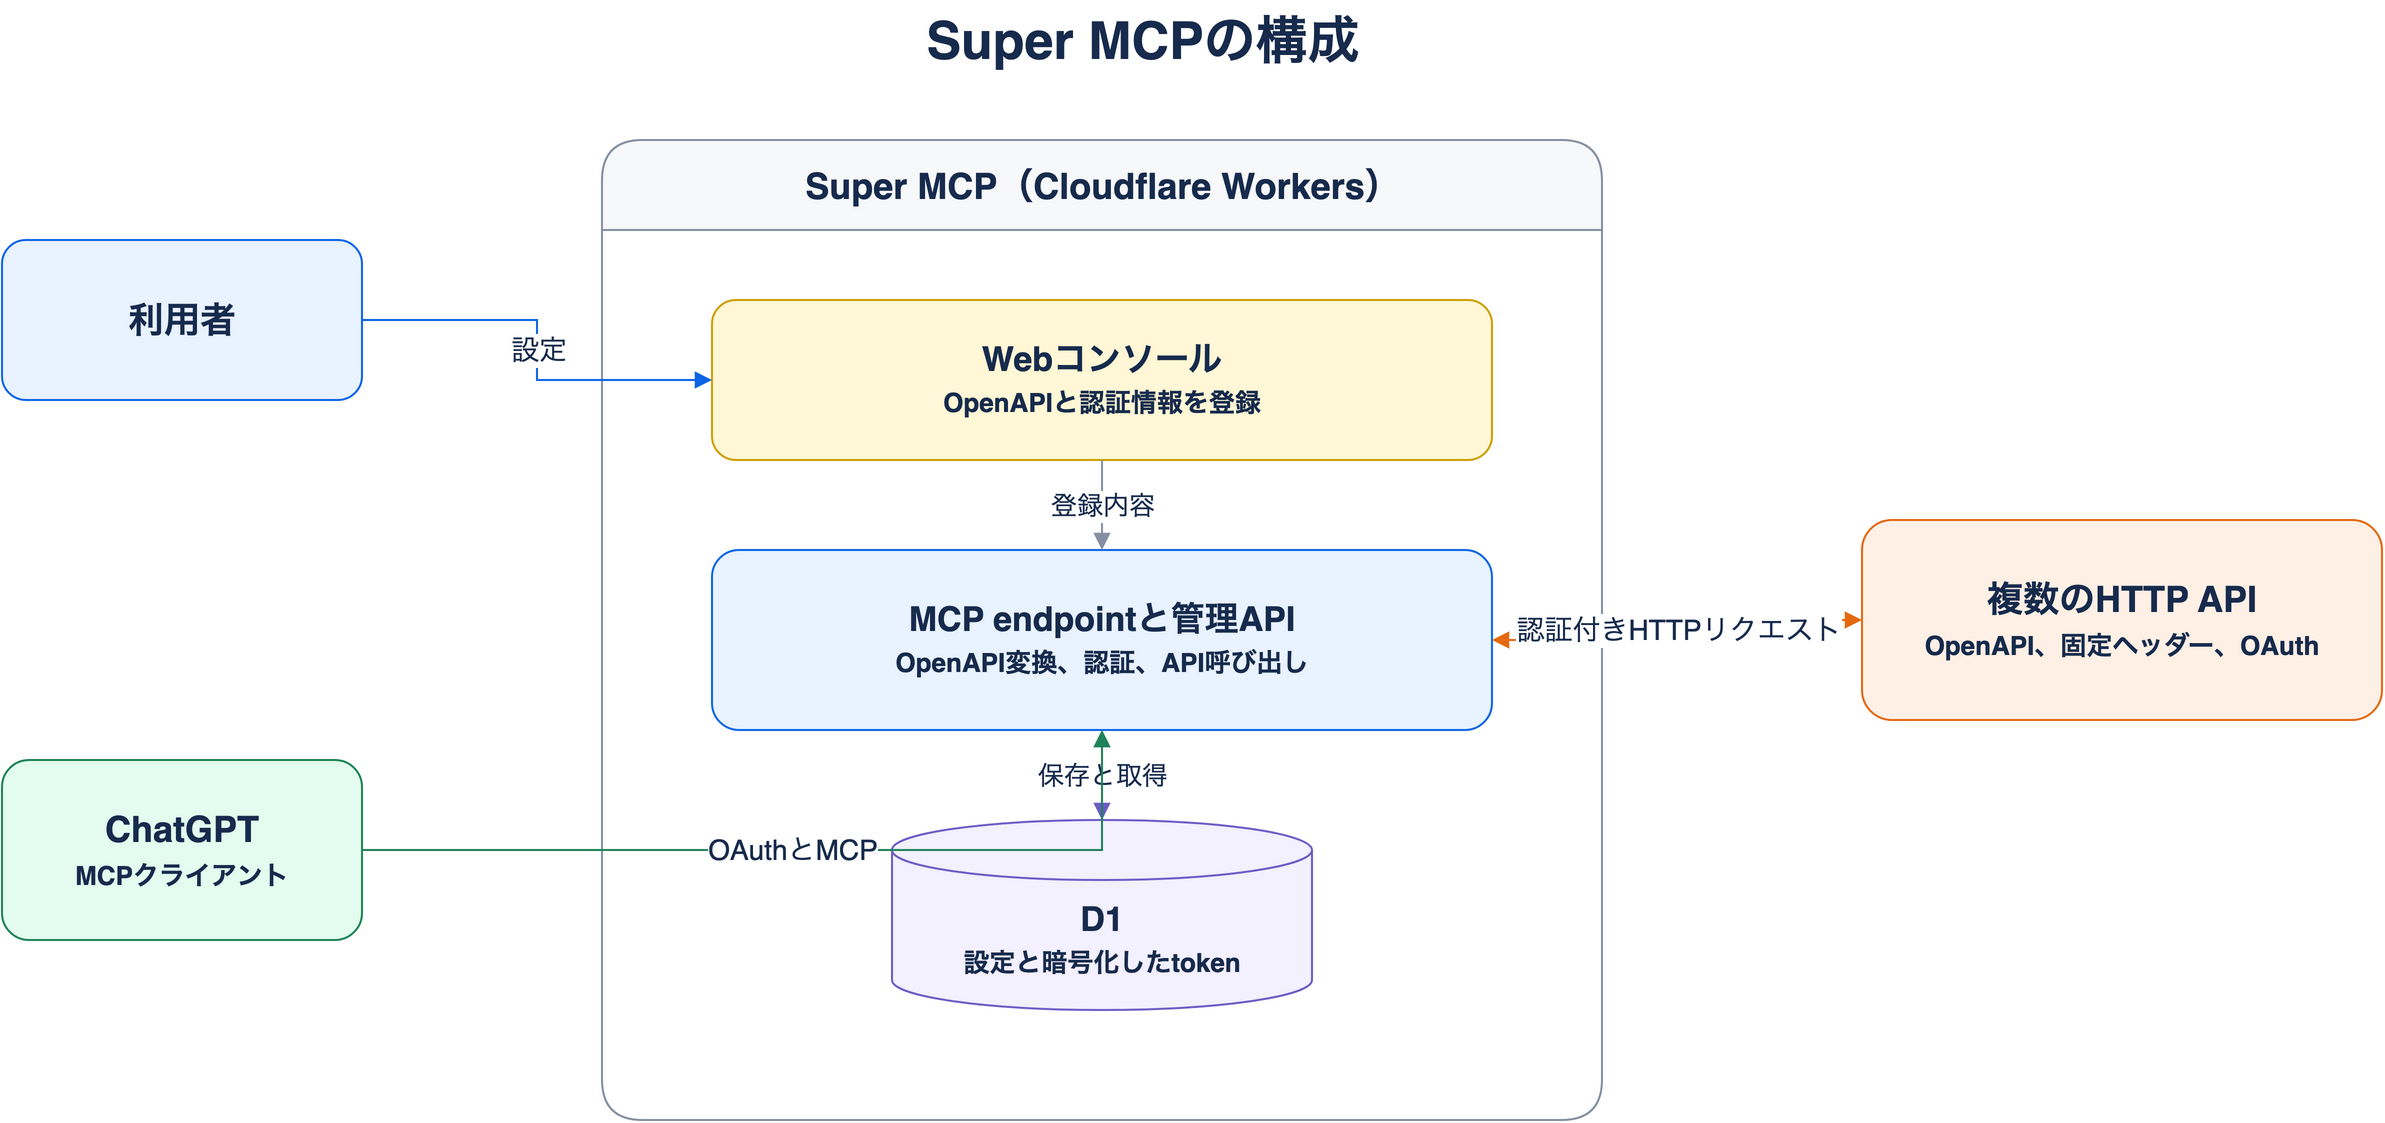
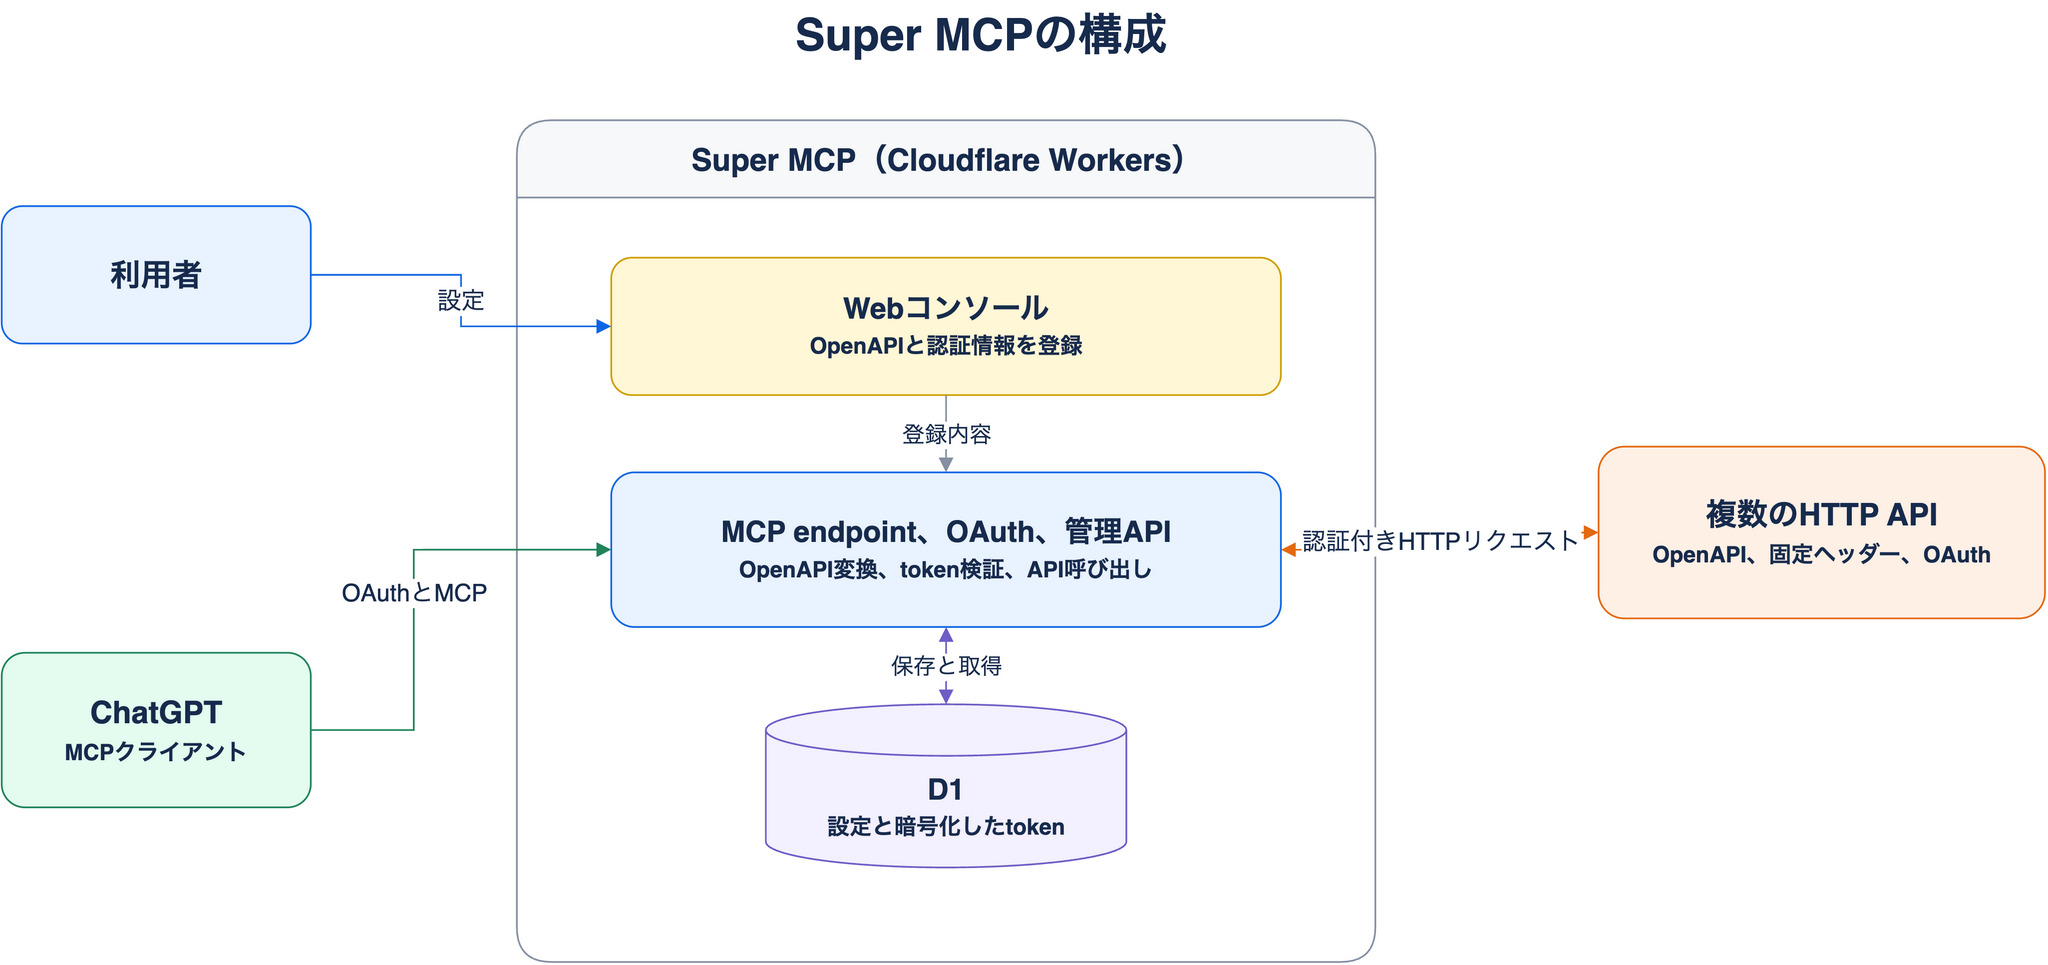
docs: strengthen Super MCP article review

diff --git a/plots/super-mcp-chatgpt-review.md b/plots/super-mcp-chatgpt-review.md
@@ -1,0 +1,121 @@
+# 「Super MCP」記事の評価基準
+
+## 採点式
+
+合計100点で評価する。
+
+| 評価軸 | 配点 | 満点の条件 |
+| --- | ---: | --- |
+| 読者価値と主張 | 15 | 誰のどの問題を扱い、読後に何を持ち帰れるかが冒頭で分かる |
+| 背景と問題設定 | 10 | 解決策を先回りせず、実際に起きていた問題と原因を区別して示す |
+| 構成と節の役割 | 15 | 各節が一つの問いに答え、同じ粒度の説明を別の節で繰り返さない |
+| 技術説明 | 20 | 入力、変換、実行、認証の流れを具体例から追え、実装範囲も分かる |
+| 設計判断 | 15 | 採用案だけでなく、代替案、選択理由、得たもの、失ったものを示す |
+| 正確さと限定 | 10 | 仕様上の役割と実装事実を区別し、未計測、未実装、対象外を明記する |
+| 図と実例 | 5 | 図が本文の理解を助け、実際の利用場面か検証結果が主張を裏付ける |
+| 文章品質 | 5 | 丁寧語、一文一義、用語の一貫性、冗長さのなさを満たす |
+| 会社ブログとしての完成度 | 5 | 会社と著者の文脈、ブログリレーの導入と結びが自然に収まる |
+
+## 判定基準
+
+- 90点以上：強い記事。固有の実装と判断が、実例を伴って読者へ伝わる
+- 85〜89点：公開可能。大きな欠落はないが、実証か読み物としての吸引力に改善余地がある
+- 80〜84点：技術草稿として良好。主張を裏付ける材料か構成に不足がある
+- 79点以下：公開前に正確さまたは論証を直す必要がある
+
+一つでも配点の60%未満の軸があれば、合計点にかかわらず公開前に修正する。
+
+## 改善ループ
+
+1. 会話の経緯を持たない三つの視点（初見読者、技術編集、仕様監査）で採点する
+2. 複数の評価で共通した指摘と、正確さに関する指摘を優先する
+3. 見込み加点が2点以上の変更だけを反映する
+4. 同じ基準で再採点する
+5. 90点以上、全軸60%以上、前回からの改善が2点未満になった時点で終了する
+
+## 第1回評価
+
+独立評価は82点、81点、73点だった。
+
+共通していた減点は次の通り。
+
+- ChatGPTから使った実例がなく、作った結果を検証できない
+- OAuthでSuper MCPが担う役割の説明が不足している
+- 構成図のChatGPTからの線がD1へ接続して見える
+- tool数を固定した効果を計測しておらず、設計の評価が途中で止まっている
+- 任意URLを取得することによるSSRFのリスクが弱く扱われている
+
+統一基準へ換算した初回スコアは79点とする。
+
+| 評価軸 | 得点 |
+| --- | ---: |
+| 読者価値と主張 | 12/15 |
+| 背景と問題設定 | 9/10 |
+| 構成と節の役割 | 12/15 |
+| 技術説明 | 15/20 |
+| 設計判断 | 12/15 |
+| 正確さと限定 | 6/10 |
+| 図と実例 | 3/5 |
+| 文章品質 | 5/5 |
+| 会社ブログとしての完成度 | 5/5 |
+
+## 第1回で反映した変更
+
+- MCPに対するOAuth認可サーバーとリソースサーバーの役割を区別した
+- Dynamic Client Registrationが必須要件ではないことを明記した
+- 二つのOAuthシーケンス図を実際のリダイレクトとtoken更新条件に合わせた
+- 対応するOpenAPIの入力形式と、扱わない形式を明記した
+- annotationの推定をOpenAPI変換の節へ移し、権限制御ではないと明記した
+- tool数を固定した効果は未計測であると明記した
+- SSRFを個人利用に限定する主要因として説明した
+- 構成図の接続線とOAuthの役割表記を修正した
+
+## 未解決
+
+実際の利用例には、登録済みのHevy APIを使ってトレーニング履歴を振り返る場面が適している。
+
+天気APIは動作確認にはなるが、メタMCPの有用性を示す例として弱いため採用しない。
+
+個人のトレーニングデータを含むため、本文へ載せる画面と値は著者が公開範囲を決めてから追加する。
+
+## 第2回評価
+
+初回と異なる三つのサブエージェントが、同じ評価表で96点、87点、82点を付けた。
+
+平均は88.3点だったが、仕様監査では「正確さと限定」が3/10となり、公開条件を満たさなかった。
+
+実装とMCP仕様を再照合し、次の不整合を確認した。
+
+- 認可requestの`resource`が任意で、token requestとaccess tokenのaudience bindingへ反映されていない
+- PKCEなしと`plain`方式を許可している
+- Dynamic Client Registrationでredirect URIを十分に制限していない
+- ログイン済み利用者へ明示的な同意画面を出していない
+- `list_commands`と`call_command`が`outputSchema`を宣言しながら`structuredContent`を返していない
+
+これらを記事へ明記し、まとめで実装上の優先課題として扱った。
+
+編集視点からは、対象読者と、二tool構成で何を優先したかも不足していたため追記した。
+
+## 第3回評価
+
+第2回と異なる技術編集と仕様監査の二つの視点で再評価し、93点と91点だった。
+
+いずれも90点以上で、すべての評価軸が配点の60%以上となった。
+
+仕様監査で、`outputSchema`と実際のtool resultの不整合は`call_command`だけでなく`list_commands`にもあると判明したため、本文を訂正した。
+
+天気APIは疎通確認には使えるものの、認証情報を集約する利点が伝わりにくい。
+
+そこで、APIキーで保護されたHevyのトレーニング履歴をChatGPTから振り返る利用例へ置き換えた。
+
+実データを含む画面は掲載せず、プロンプトと呼び出し経路で利用場面を示した。
+
+## 最終確認
+
+第3回の指摘を反映した後、同じ二つの視点で再採点し、94点と95点だった。
+
+Hevyの利用例により、プロンプト、toolの呼び出し、APIキーをモデルへ渡さない効果が一続きで分かるようになった。
+
+匿名化した実行結果を加える余地はあるものの、記事の中心は分析結果ではなく接続と認証の設計であるため、実データを載せなくても論証は成立している。
+
+全評価軸が80%以上となり、新たな2点以上の改善事項も確認されなかったため、今回のループはここで終了する。